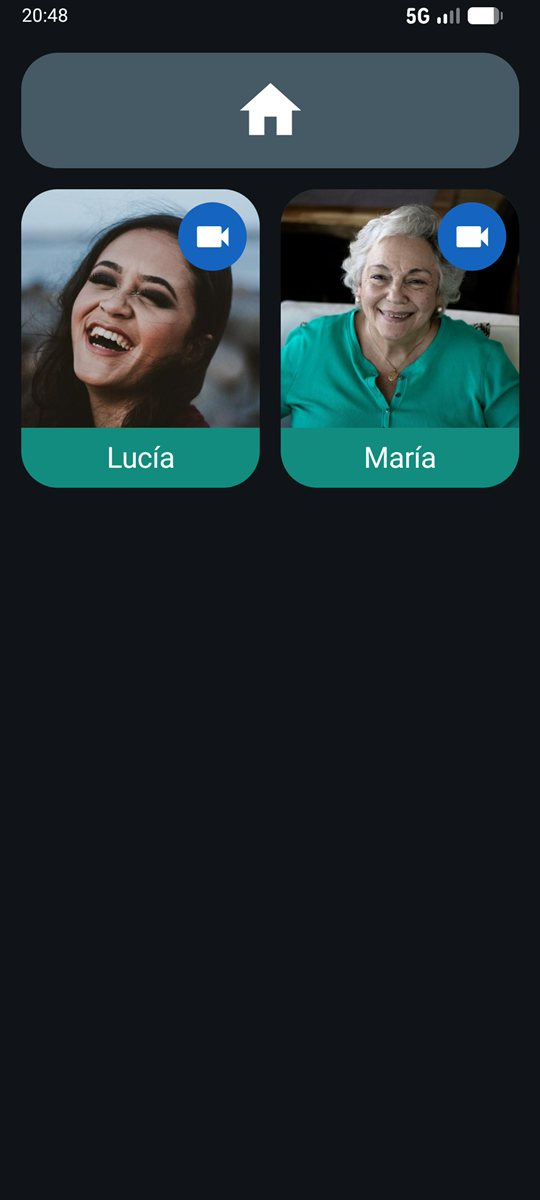
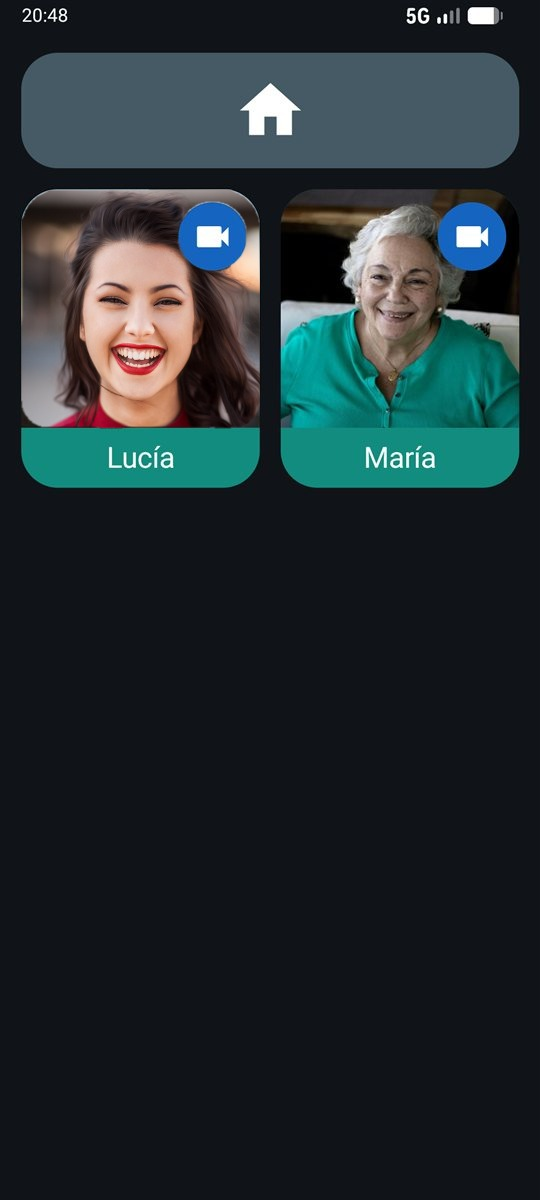
Docs: foto de Lucía en dominio público (CC0)
La foto de Unsplash de Igor Rodrigues se sustituye en las 13 capturas
donde salía por "Happy daughter" de Michael Dam (CC0, Wikimedia Commons).
Créditos actualizados en FUNCIONES.md y README.md.

Changed region(s): [[0.0296, 0.1542, 0.5037, 0.37]]

diff --git a/README.md b/README.md
@@ -67,7 +67,7 @@ Más detalles en **[docs/FUNCIONES.md](docs/FUNCIONES.md)**.
 
 Todas las pantallas, explicadas una a una, en **[docs/FUNCIONES.md](docs/FUNCIONES.md)**.
 
-<sub>Capturas del emulador con contactos inventados; fotos de Unsplash (créditos en [FUNCIONES.md](docs/FUNCIONES.md)).</sub>
+<sub>Capturas del emulador con contactos inventados; fotos de Unsplash y Wikimedia Commons (créditos en [FUNCIONES.md](docs/FUNCIONES.md)).</sub>
 
 ## Requisitos
 
@@ -134,5 +134,5 @@ LlamaditApp es **software libre**: puedes usarlo, estudiarlo, modificarlo y redi
 
 - Si distribuyes una versión modificada, debes publicar también su código fuente bajo la misma licencia.
 - Te pedimos, además, que uses **otro nombre y otro `applicationId`** para tu versión, para que no se confunda con esta ni choque con ella al instalarse.
-- Las fotos de personas de `docs/img/capturas/` son de [Unsplash](https://unsplash.com) y tienen su propia licencia (créditos en [FUNCIONES.md](docs/FUNCIONES.md)); **no están cubiertas por la AGPLv3**.
+- Las fotos de personas de `docs/img/capturas/` son de [Unsplash](https://unsplash.com) y de Wikimedia Commons (una en dominio público, CC0) y tienen su propia licencia (créditos en [FUNCIONES.md](docs/FUNCIONES.md)); **no están cubiertas por la AGPLv3**.
 - Las librerías de Android (AndroidX, Jetpack Compose) y los iconos de Material Design se usan bajo la licencia Apache 2.0, compatible con la AGPLv3.

diff --git a/docs/FUNCIONES.md b/docs/FUNCIONES.md
@@ -363,4 +363,4 @@ Los botones de la pantalla principal (Volver a casa, Ejercicios, Radio, WhatsApp
 
 ---
 
-<sub>Capturas hechas en el emulador de Android con contactos inventados (los dibujos de los ejercicios son propios); la dirección de ejemplo es la Plaza de España de Sevilla y el portal es un dibujo. La lista de chats es de una app de prueba, no del WhatsApp real. Fotos de los contactos: [Daniel Lara](https://unsplash.com/es/fotos/t9tDSXN2U2E), [Vitaly Gariev](https://unsplash.com/es/fotos/4HNK1yce-Vg), [Igor Rodrigues](https://unsplash.com/es/fotos/6IGd3-F3Cao), [Sergey Mikheev](https://unsplash.com/es/fotos/H982yXJ7vOk) y [Vitaly Gariev](https://unsplash.com/es/fotos/IihDS3WZGlY) en Unsplash (licencia de Unsplash).</sub>
+<sub>Capturas hechas en el emulador de Android con contactos inventados (los dibujos de los ejercicios son propios); la dirección de ejemplo es la Plaza de España de Sevilla y el portal es un dibujo. La lista de chats es de una app de prueba, no del WhatsApp real. Fotos de los contactos: [Daniel Lara](https://unsplash.com/es/fotos/t9tDSXN2U2E), [Vitaly Gariev](https://unsplash.com/es/fotos/4HNK1yce-Vg), [Sergey Mikheev](https://unsplash.com/es/fotos/H982yXJ7vOk) y [Vitaly Gariev](https://unsplash.com/es/fotos/IihDS3WZGlY) en Unsplash (licencia de Unsplash), y [Michael Dam](https://commons.wikimedia.org/wiki/File:Happy_daughter_(Unsplash).jpg) (dominio público, CC0, en Wikimedia Commons).</sub>
